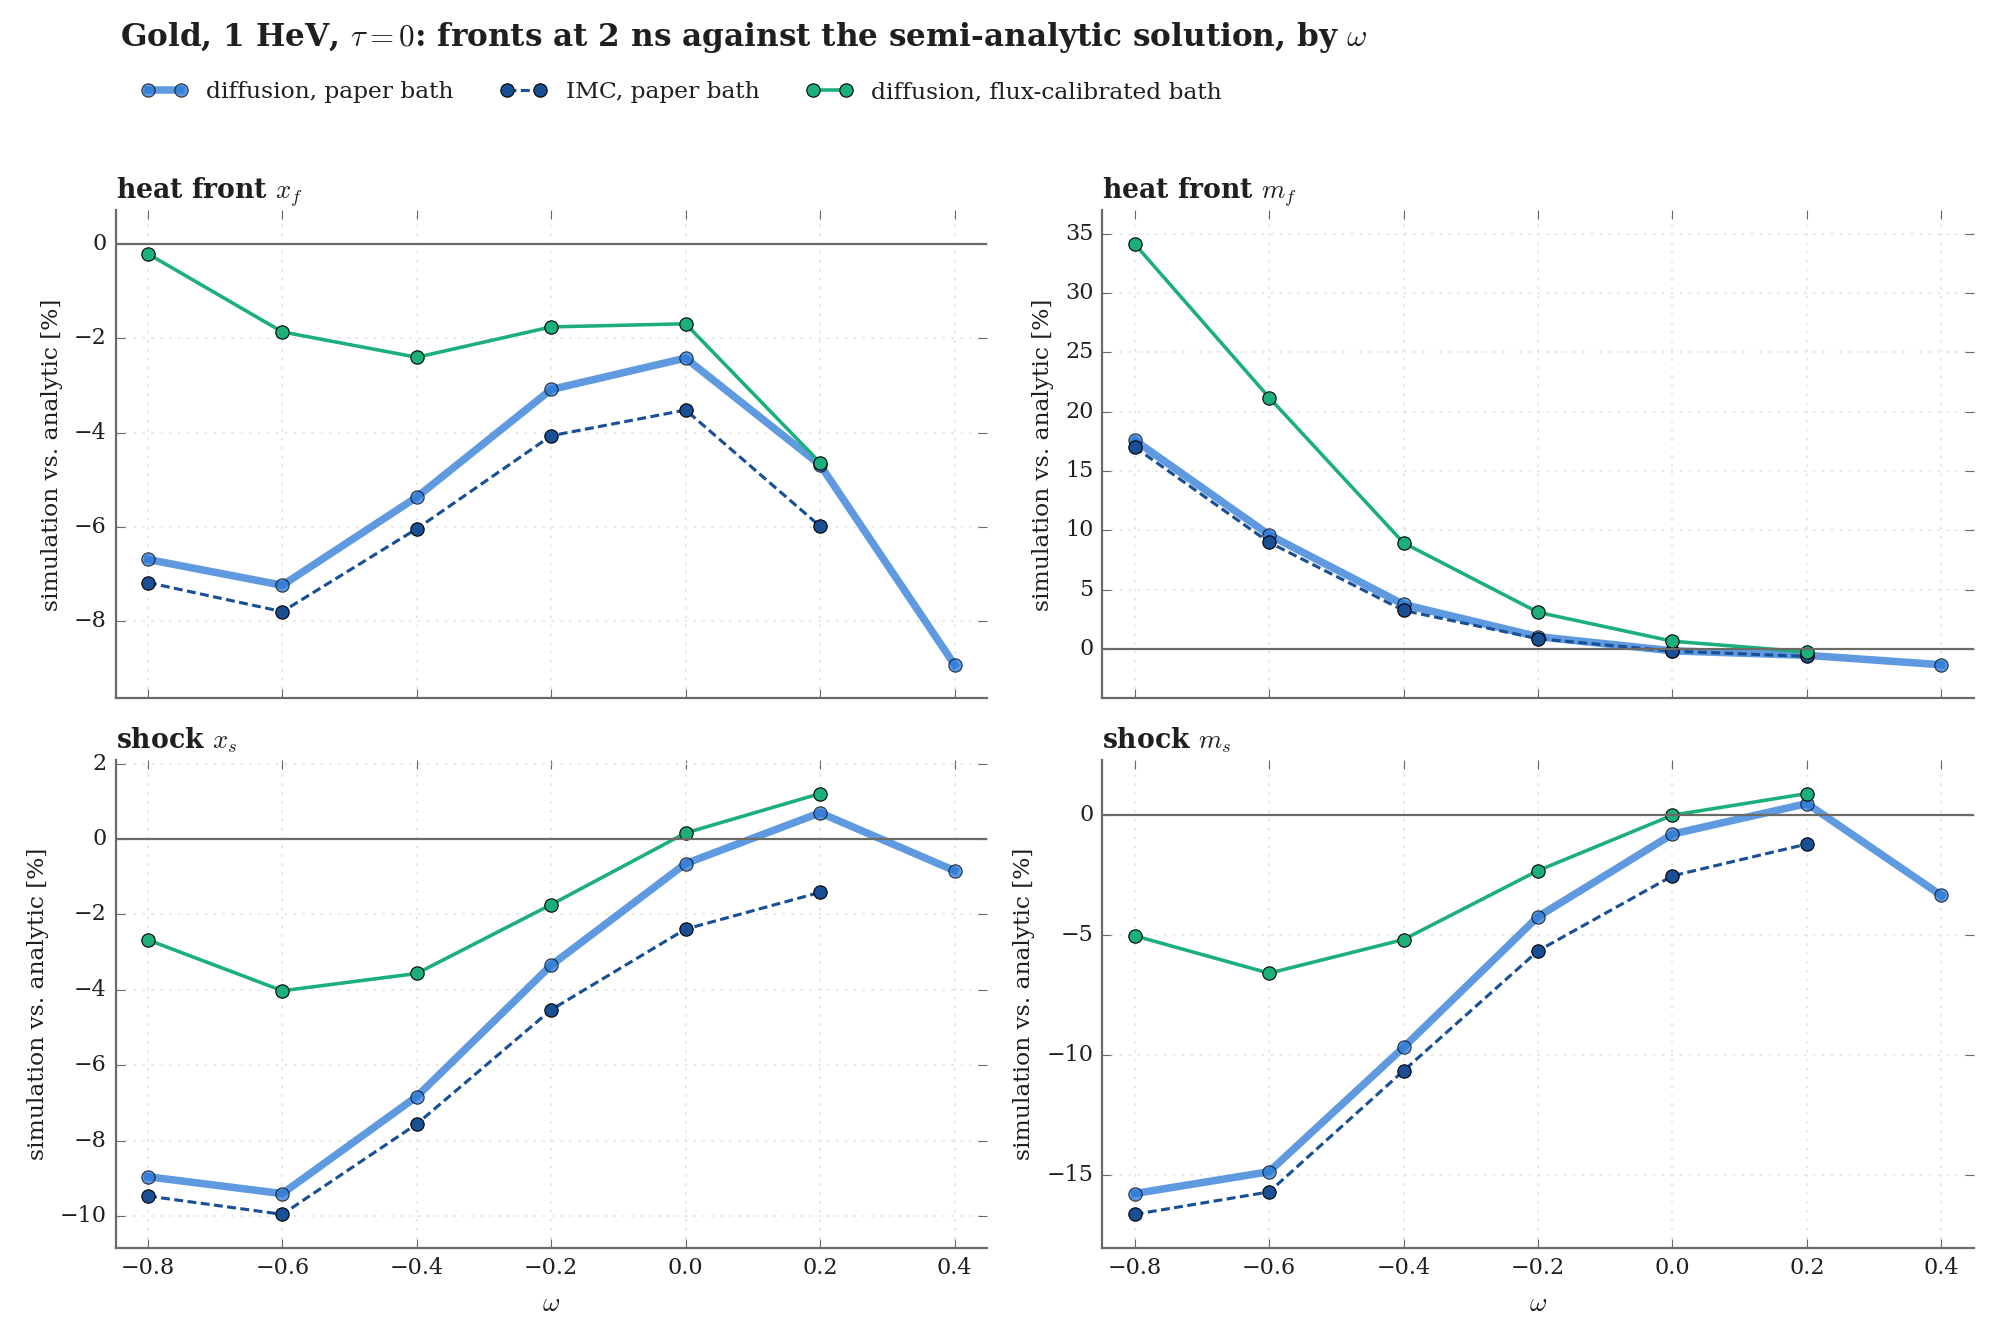
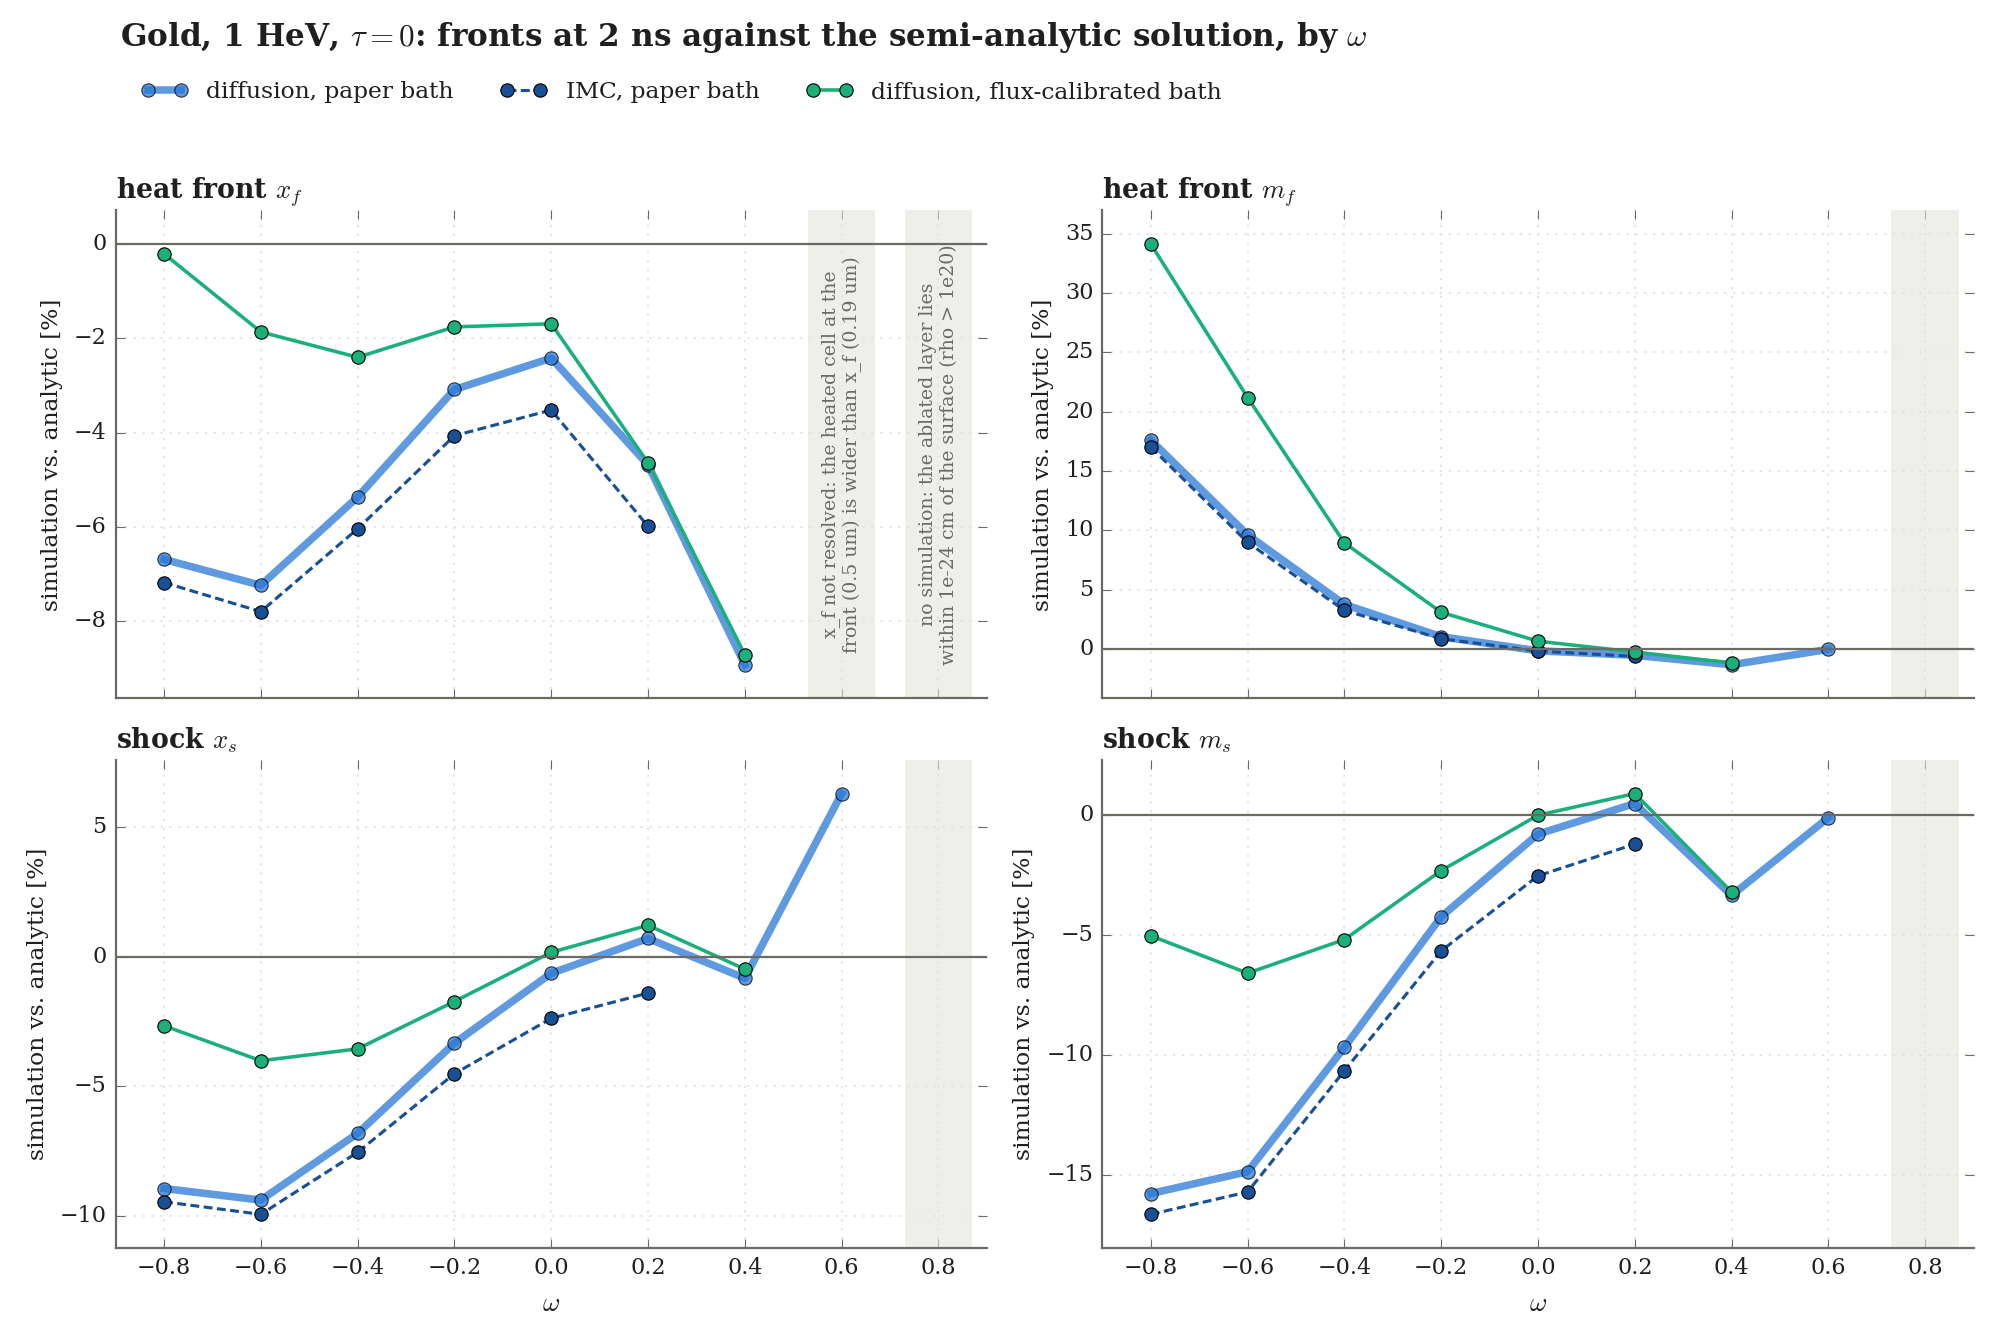
omega sweep: +0.4 with the flux bath, +0.6 run, +0.8 solver; x_f resolution marked
+0.4: flux calibration converged after 3 runs (0.16%), flux-bath diffusion run.
+0.6: paper-bath diffusion, 1.14M steps with dt_first_frac = 1e-12: m_f 0.0%, m_s -0.1%,
x_s +6.3%; x_f is not resolved there (the heated cell at the front, 0.53 um, is wider
than x_f, 0.19 um) and is left out of the summary with a note.
+0.8: the solver now exists (BracketedPistonShock), but no simulation: the ablated layer
lies within 1e-24 cm of the surface; marked in the summary.
Also Test 3's flux calibration table (converged after 3 runs, 0.18%).

diff --git a/src/rad_hydro_sim/verification/omega_sweep.py b/src/rad_hydro_sim/verification/omega_sweep.py
@@ -202,6 +202,9 @@ def plot_omega(omega: float, path: Path):
             ax.text(0.03, 0.95 - 0.075 * i, txt, transform=ax.transAxes, va="top", fontsize=9.5, color=col)
         ax.text(0.03, 0.95 - 0.075 * len(lines), f"vs. analytic at {t_end * 1e9:g} ns", transform=ax.transAxes,
                 va="top", fontsize=9, color=MUTED)
+        if (omega, key) in UNRESOLVED:
+            ax.text(0.97, 0.5, UNRESOLVED[(omega, key)], transform=ax.transAxes, ha="right", va="center",
+                    fontsize=9.5, color="#a33")
         ax.set_xlim(0, t_end * 1e9)
         ax.set_ylim(bottom=0)
         ax.set_xlabel("t [ns]", color=INK, fontsize=11)
@@ -221,6 +224,12 @@ def plot_omega(omega: float, path: Path):
     plt.close(fig)
 
 
+NO_SIMULATION = {0.8: "no simulation: the ablated layer lies\nwithin 1e-24 cm of the surface (rho > 1e20)"}
+# quantities the mesh does not resolve: at omega = +0.6 the heated cell holding the heat front is
+# ~0.5 um wide, wider than x_f itself (0.19 um), so its position is not defined to better than that
+UNRESOLVED = {(0.6, "x_f"): "x_f not resolved: the heated cell at the\nfront (0.5 um) is wider than x_f (0.19 um)"}
+
+
 def plot_summary(omegas, path: Path, t: float = 2e-9):
     """Deviation from the analytic solution at t against omega, one panel per front quantity."""
     import matplotlib
@@ -238,17 +247,31 @@ def plot_summary(omegas, path: Path, t: float = 2e-9):
     fig, axes = plt.subplots(2, 2, figsize=(12.5, 8.4), sharex=True)
     for ax, (key, ylabel, _) in zip(axes.flat, PANELS):
         for name in names:
-            pts = [(w, r[name][key]) for w, r in rows.items() if name in r]
+            pts = [(w, r[name][key]) for w, r in rows.items() if name in r and (w, key) not in UNRESOLVED]
             st = dict(STYLE[name])
             ax.plot(*zip(*pts), marker="o", ms=6, **st)
+        for (w, k), note in UNRESOLVED.items():
+            if k == key and w in rows:
+                ax.axvspan(w - 0.07, w + 0.07, color=GRID, alpha=0.6, lw=0)
+                ax.text(w, 0.5, note, transform=ax.get_xaxis_transform(), rotation=90, ha="center", va="center",
+                        fontsize=8.5, color=MUTED)
         ax.axhline(0, color=MUTED, lw=1)
         ax.margins(x=0.04, y=0.08)
         ax.set_title(ylabel.split(" [")[0], color=INK, fontsize=12, loc="left", fontweight="bold")
         ax.set_ylabel("simulation vs. analytic [%]", color=INK, fontsize=10.5)
         _style(ax)
+    # the omegas with no simulation, marked where they would be
+    missing = [w for w in OMEGAS if w not in rows]
+    for ax in axes.flat:
+        for w in missing:
+            ax.axvspan(w - 0.07, w + 0.07, color=GRID, alpha=0.6, lw=0)
+        ax.set_xlim(min(OMEGAS) - 0.1, max(OMEGAS) + 0.1)
+    for w in missing:
+        axes[0, 0].text(w, 0.5, NO_SIMULATION.get(w, "not run"), transform=axes[0, 0].get_xaxis_transform(),
+                        rotation=90, ha="center", va="center", fontsize=8.5, color=MUTED)
     for ax in axes[1]:
         ax.set_xlabel(r"$\omega$", color=INK, fontsize=12)
-        ax.set_xticks(list(omegas))
+        ax.set_xticks(list(OMEGAS))
     handles = [Line2D([0], [0], marker="o", ms=6, label=n, **STYLE[n]) for n in names]
     fig.legend(handles=handles, loc="upper left", bbox_to_anchor=(0.06, 0.955), ncol=len(handles), frameon=False,
                fontsize=10.5, labelcolor=INK)

diff --git a/md/phase_c/omega_sweep/README.md b/md/phase_c/omega_sweep/README.md
@@ -1,6 +1,6 @@
 # Gold ω sweep: heat front and shock against time
 
-Gold, 1 HeV, τ = 0 (Test 4's material and drive) with the density ρ₀x^(−ω) for ω = −0.8 … +0.4 in steps of 0.2. For each ω: the heat front (x_f, m_f) and the shock (x_s, m_s) against time, from diffusion with the paper bath, diffusion with the flux-calibrated bath, IMC with the paper bath (where cheap), and the semi-analytic `AblationSolver` (the same for both baths). Background on the baths: `../bath_calibration.md`.
+Gold, 1 HeV, τ = 0 (Test 4's material and drive) with the density ρ₀x^(−ω) for ω = −0.8 … +0.8 in steps of 0.2 (simulated up to +0.6; +0.8 has the solver only, §2). For each ω: the heat front (x_f, m_f) and the shock (x_s, m_s) against time, from diffusion with the paper bath, diffusion with the flux-calibrated bath, IMC with the paper bath (ω ≤ +0.2), and the semi-analytic `AblationSolver` (the same for both baths). Background on the baths: `../bath_calibration.md`.
 
 | file | content |
 |---|---|
@@ -32,12 +32,15 @@ Simulation vs. `AblationSolver`, in %; + means the simulation is ahead.
 | | IMC, paper | −6.0 | −0.6 | −1.4 | −1.2 |
 | | diffusion, flux-calibrated | −4.6 | −0.2 | +1.2 | +0.9 |
 | +0.4 | diffusion, paper | −8.9 | −1.3 | −0.8 | −3.3 |
+| | diffusion, flux-calibrated | −8.7 | −1.2 | −0.5 | −3.2 |
+| +0.6 | diffusion, paper | not resolved | 0.0 | +6.3 | −0.1 |
 
 What it shows:
 - **The shock follows the trend of `why_the_solver_differs.md` §3.** It agrees within ~1% for ω = 0 and +0.2 and falls behind steadily as ω decreases, to −15 … −16% in mass at ω ≤ −0.6, where the ablated mass is a large fraction of the shocked mass.
 - **The flux-calibrated bath roughly halves or thirds the shock deficit for ω < 0** (−16 → −5% at ω = −0.8). It does so by driving more energy in, so the heat front's *mass* m_f runs further ahead (+17 → +34%); its *position* x_f then lands on the solver's. For ω ≥ 0 the two baths agree within ~1%.
-- **IMC follows diffusion** within 0.1–1.7 percentage points on every quantity.
-- **x_f at ω > 0** (−4.7% at +0.2, −8.9% at +0.4) while m_f agrees within ~1%: the heat front sits on very dense matter there, where x(m) is steep, so a small mass offset is a large position offset.
+- **IMC follows diffusion** within 0.1–2.1 percentage points on every quantity.
+- **x_f for ω > 0 is limited by the cell at the front**, while m_f agrees within ~1%. The front's position is interpolated between cell centres, and the heated cell holding it is 0.1–0.5 µm wide, against x_f = 3.3 µm (+0.2), 1.0 µm (+0.4) and 0.19 µm (+0.6). Taking the position from the dense side of the front instead (the first cold cell, stepped back to m_f) gives −2.1% at +0.2 and −7.9% at +0.4, so part of the x_f deficit there is real and part is this interpolation; for ω ≤ 0 the two definitions agree within 0.7 points. At +0.6 the heated cell (0.53 µm) is wider than x_f itself, so x_f is not resolved and is left out of the summary.
+- **ω = +0.6** (graded mesh, 1.14 million steps): the heat front's mass and the shock's mass agree with the solver to 0.1%; the shock position is +6.3% ahead, which fits the low density behind the ablation front that Test 3 shows on the same mesh (`../phase_c_tests3to6_results.md`).
 
 ## What was run, and what was skipped
 
@@ -46,18 +49,25 @@ What it shows:
 | −0.8 … −0.2 | 400 cells, uniform in mass | diffusion, 39–49 s | 7 runs (flux matched to 0.2–1.0%), then diffusion, 19–35 s | 1 seed, paper bath |
 | 0 | 657, uniform in mass | 76 s | converged after 4 runs; then diffusion, 32 s | 1 seed |
 | +0.2 | 1510, uniform in mass | 186 s | converged after 3 runs; then diffusion, 100 s | 1 seed, 420 s |
-| +0.4 | 347, graded (Test 3's) | 555 s | **skipped** (7 × ~10 min) | skipped |
-| +0.6 | graded | **failed**: the hydro's compatible energy update does not converge, also with the time step capped at 0.2 ps; not pursued | — | — |
-| +0.8 | — | **no analytic solution**: Menahem's `PistonShock` finds no root for the shock (both `fsolve` and bisection fail from ω ≈ 0.75; 0.7 works) | — | — |
+| +0.4 | 347, graded (Test 3's) | 555 s | converged after 3 runs (0.16%); then diffusion | skipped |
+| +0.6 | 347, graded | ~1 h of compute, 1.14 million steps, with the first step at 10⁻¹² t_end (below) | skipped | skipped |
+| +0.8 | — | **not simulated** (below); the solver exists | — | — |
 
 The uniform-mass meshes put ≥ 40 cells across the ablated layer at 2 ns (cells = 40 × 1.15 m_s/m_f, 400 to 2000). From ω = +0.4 the shocked mass is ≥ 100× the ablated one, so the graded mesh of Test 3 is used. Its shocked region has coarse cells, which costs a few % in the shock (Test 3: −2% on this mesh).
+
+### ω = +0.6 and +0.8
+
+- **The first time step at ω = +0.6.** The first two rad-hydro steps are fixed at 10⁻¹⁰ t_end and not limited by the CFL, because the drive is singular as t → 0. At ω = +0.6 the surface cell is 1.2×10⁻¹⁵ cm thick at ρ = 4×10¹⁰ g/cm³. The first step heats it ~2000×, its sound speed then gives c_s dt/dx ≈ 6, and the compatible energy update, a fixed point contracting like (c_s dt/dx)², diverges at t = 0. A smaller CFL or step cap does not help; `SimulationConfig.dt_first_frac = 1e-12` does (default 1e-10, unchanged elsewhere).
+- **The solver at ω ≥ 0.75.** Menahem's `PistonShock` starts `fsolve` from a fixed guess where the shock-root function is flat at −1, and fails although the root exists (ω = 0.8: ξ_s = 4.137, piston pressure matched). The sweep uses `omega_sweep.BracketedPistonShock`, which finds it with `brentq` over a scanned bracket and gives the same root as `fsolve` to 10⁻⁶ for ω ≤ 0.7.
+- **Why ω = +0.8 is not simulated.** With x(m) = (0.2 m/ρ₀)⁵ the whole ablated layer, 1.46 mg/cm², lies within 10⁻²⁴ cm of the surface, so any mesh that resolves the heat front has densities above 10²⁰ g/cm³. With first steps of 10⁻¹², 10⁻¹⁴ and 10⁻¹⁶ t_end the run fails at once: the energy update, then a collapsing cell, then non-finite opacities. Running it would need a regularized density near the surface, which is no longer the problem the solver solves.
 
 ## Reproduce
 
 ```
 uv run python -m rad_hydro_sim.verification.omega_sweep --run=-0.8 --imc       # likewise -0.6 ... 0.0
 uv run python -m rad_hydro_sim.verification.omega_sweep --run=0.2
-uv run python -m rad_hydro_sim.verification.omega_sweep --run=0.4 --no-flux
+uv run python -m rad_hydro_sim.verification.omega_sweep --run=0.4
+uv run python -m rad_hydro_sim.verification.omega_sweep --run=0.6 --no-flux
 uv run python -m rad_hydro_sim.verification.omega_sweep --figures
 ```
 
